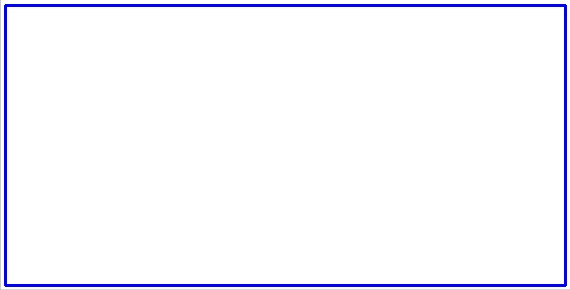
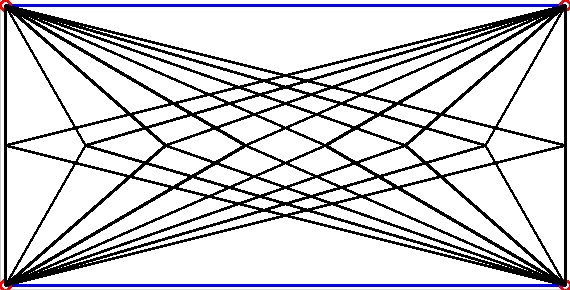
complete Q4

diff --git a/HW1/Q4.py b/HW1/Q4.py
@@ -1,4 +1,3 @@
-from ast import With
 import cv2
 
 def show_image(image):
@@ -27,17 +26,35 @@ img_resized = cv2.resize(image_rgb , (HEIGHT , WIDTH))
 
 ## draw lines 
 COLOR = (255, 0, 0)
-THICKNESS = 2
+THICKNESS = 1
 
 image = cv2.line(img_resized, (5,5), (565,5), COLOR, THICKNESS)
 image = cv2.line(img_resized, (5,5), (5,285), COLOR, THICKNESS)
 image = cv2.line(img_resized, (565,285), (565,5), COLOR, THICKNESS)
 image = cv2.line(img_resized, (565,285), (5,285), COLOR, THICKNESS)
-show_image(image=image)
 
 ## draw circles 
 
+corners = [
+    (5,5),
+    (565,5),
+    (5,285),
+    (565,285),
+]
+
+for corner in corners :
+    image = cv2.circle(image , corner,5 , (0,0,255) , THICKNESS)
+
 ## draw end.png
+COLOR = (0, 0, 0)
+
+for i in range(8):
+    x_point = i * 80 + 5
+    for corner in corners :
+        end = cv2.line(img_resized,corner , (x_point,145), COLOR, THICKNESS)
+
+show_image(image=end)
+
 
 ## save picture 
 cv2.imwrite('mypic.jpg',image)
